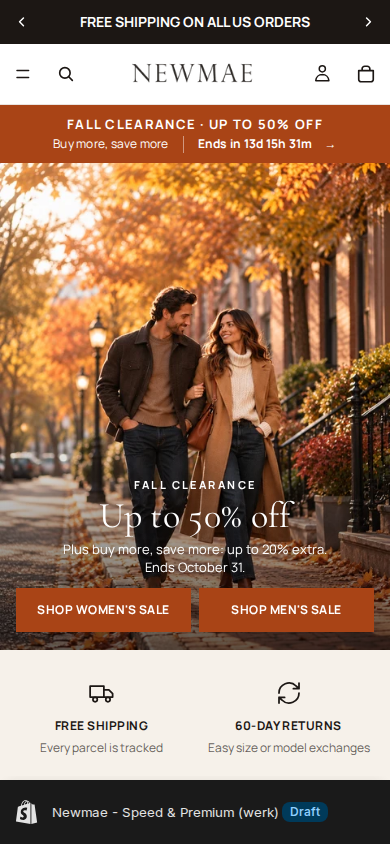
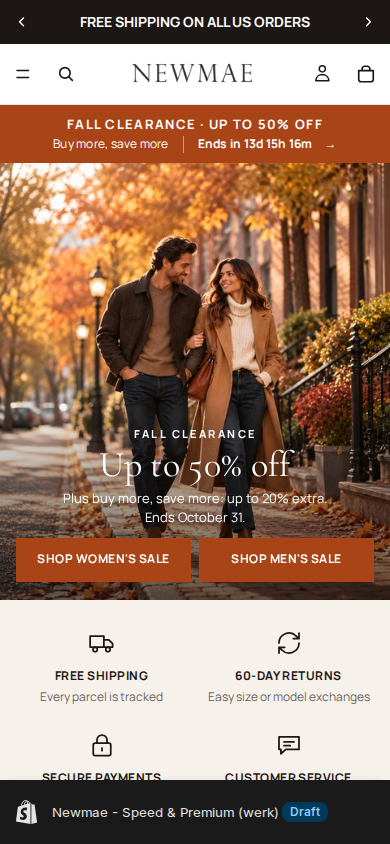
NewMae Speed & Premium: square swatches, models higher in mobile hero, trust bar options
Claude-Session: https://claude.ai/code/session_018o1F5pquvMjEbPFw2Wz8La

diff --git a/newmae/README.md b/newmae/README.md
@@ -92,7 +92,7 @@
   everything is coded as sections/snippets.
 - Quantity selector: product page only for products with quantity rules (hidden input quantity=1 otherwise,
   blocks/buy-buttons.liquid). Cart: selector only when a line has 2+, "Remove" text link (snippets/cart-products.liquid).
-- Colour swatches without app/swatch data: colour options render round photo swatches from the variant image,
+- Colour swatches without app/swatch data: colour options render square photo swatches (48px, 44px mobile) from the variant image,
   colour dot from the name as fallback (snippets/variant-main-picker, swatch, pp-color-hex). Swatch King app embed is
   still on in settings but renders nothing; if the app is reactivated, swatches would show twice.
 - Cart upsell: compact rows (64px photo, title, price, "+ Add" → quick pick) in snippets/pp-cart-upsell.
@@ -107,6 +107,6 @@
 - Measured (mobile, DPR 3, one run): product images 2060 → 1287 KB, home 1357 → 1110 KB, collection 1213 → 998 KB,
   HTML 40–75 KB smaller per page. Biggest remaining cost: Google tags loaded 4× (~680 KB JS), left to the owner.
 - Look: text colour #1C1714 (warm black), announcement bar #1C1714, cream trust band #F6F1EA, soft fade-in on scroll,
-  slow zoom on product cards (desktop), round swatches on cards.
+  slow zoom on product cards (desktop), square swatches on cards. Mobile hero cropped at 112% of the width (setting "Photo height mobile"), focal point bottom, so the models sit higher.
 - Copied as is from the live theme (owner's decision): pp-rating "Rated by 2,000+ happy customers" and the
   customer photo section with invented names. FTC / Google Merchant Center risk; switch off before ads.
